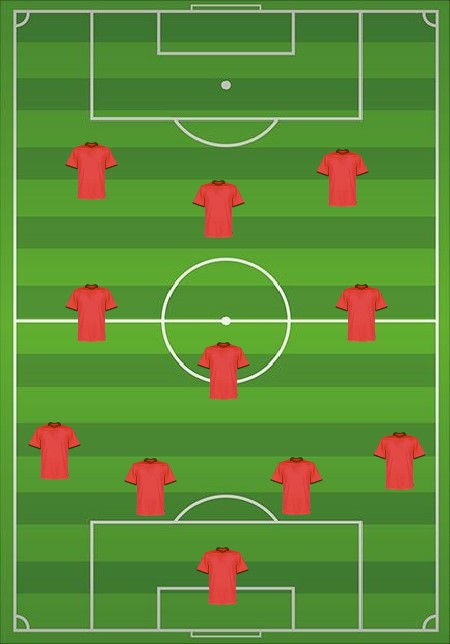
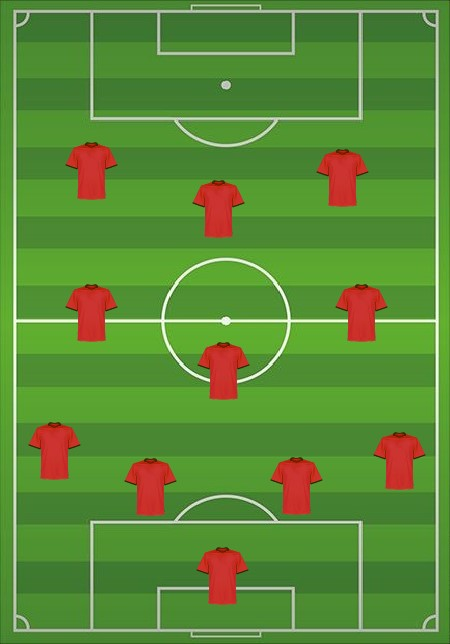
aktuellere Version

diff --git a/formation.php b/formation.php
@@ -1,6 +1,6 @@
 <div class="test">
     <div class="a">
-      <img src="https://i.pinimg.com/originals/5e/d2/e1/5ed2e125a2d45189cfd69a2c142b5b5d.jpg" id="bild"> </
+      <img src="http://localhost/OOPProject/bilder/spielfeld.jpg" id="bild" height="100%;"> </
       <br/>
       <p>
 
@@ -103,7 +103,7 @@ for($i=0; $i < 4; $i++) {
 }
 ?>
 </table>
-<input id = "btnGet" type="button" value="Get Selected" />
+<input id = "btnGet" type="button" value="Startelf für nächstes Spiel abgeben" />
     </div>
   </div>
 
@@ -128,7 +128,7 @@ for($i=0; $i < 4; $i++) {
 
   if(test == "4-3-3"){
    formation = 433;
-    document.getElementById("bild").src = "https://www.freakyjolly.com/wp-content/uploads/2019/08/hostgator-offer-india-1.gif";
+    document.getElementById("bild").src = "http://localhost/OOPProject/bilder/spielfeld433.jpg";
   }
   if(test == "4-3-2-1"){
    formation = 4321;
@@ -285,8 +285,9 @@ body {
   display: inline-block;
   width: 38%;
   background-color: #;
-  height: 20px;
+  height: 59.5vh;
   float: left;
+
 }
 
 .b {
@@ -295,6 +296,8 @@ body {
   background-color: #;
   height: 20px;
   float: right;
+  height: 59.5vh;
+  overflow-y: scroll;
 }
 
 .test {
